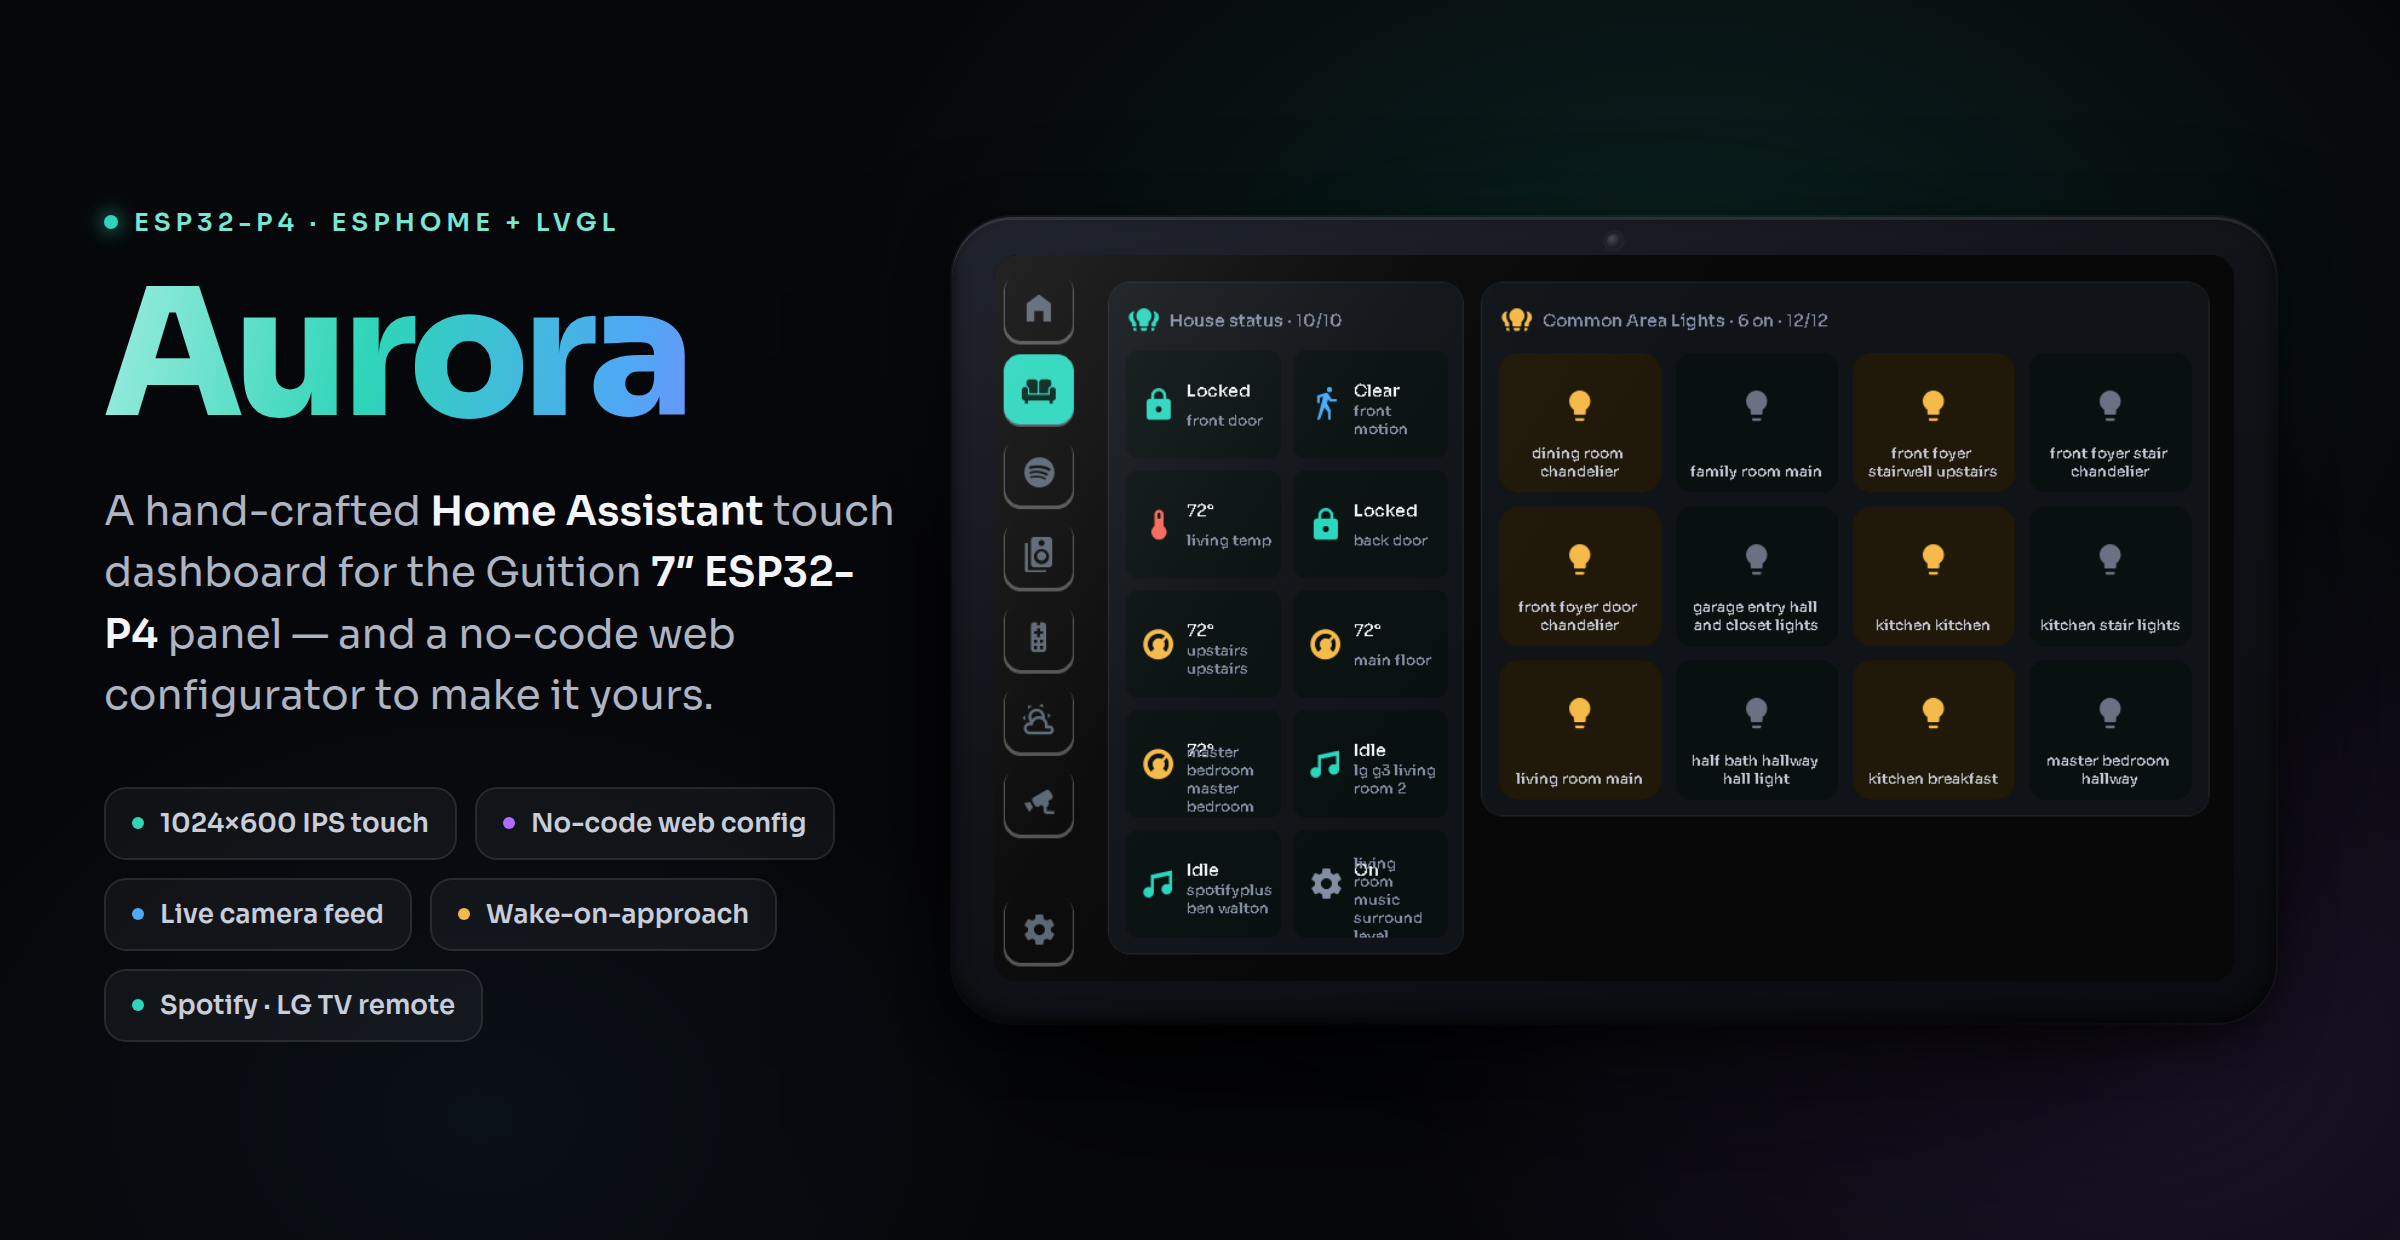
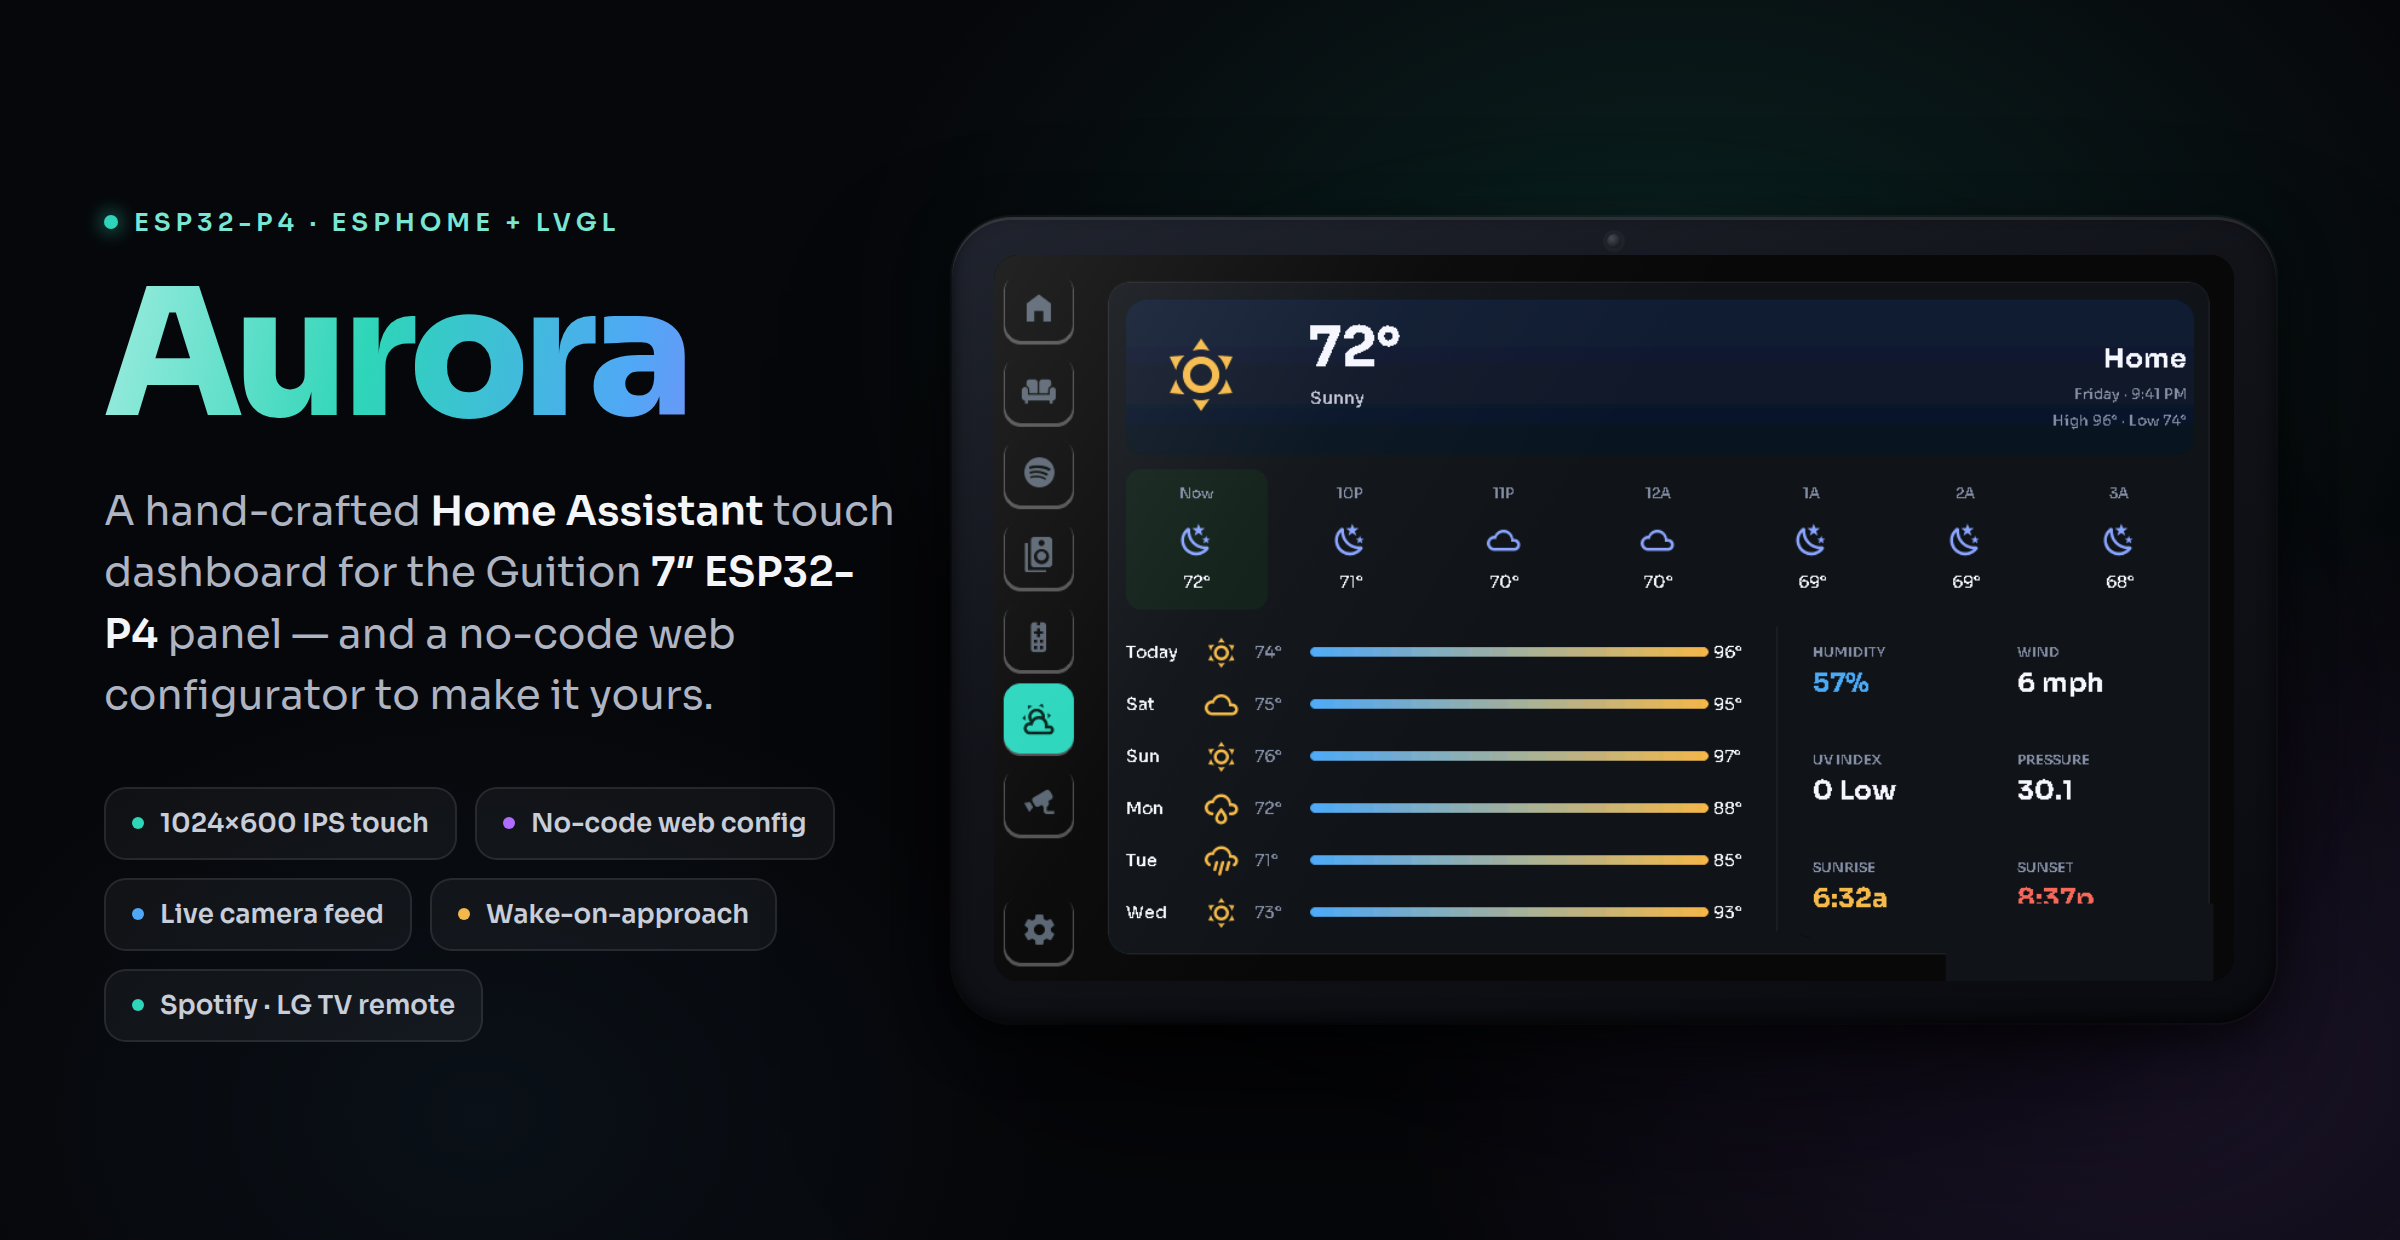
docs: use climate screen as the hero; backfill gallery with home overview
Swap the framed-device hero to the climate/7-day forecast screen (the most
visually striking render; pagination button painted out). Move the house-status
overview into the gallery slot climate vacated so no screen is duplicated.

diff --git a/README.md b/README.md
@@ -30,7 +30,7 @@ Aurora is a standalone [ESPHome](https://esphome.io) + LVGL firmware with a hand
 <table>
 <tr>
 <td width="33%" valign="top"><img src="docs/marketing/screens/controls.png" width="100%"><br><sub><b>Room controls</b> — lights, fans, switches &amp; blinds, one tap away</sub></td>
-<td width="33%" valign="top"><img src="docs/marketing/screens/climate.png" width="100%"><br><sub><b>Climate</b> — live conditions, hourly &amp; a 7-day forecast</sub></td>
+<td width="33%" valign="top"><img src="docs/marketing/screens/dashboard.png" width="100%"><br><sub><b>Home at a glance</b> — locks, sensors &amp; every light in one board</sub></td>
 <td width="33%" valign="top"><img src="docs/marketing/screens/tv-remote.png" width="100%"><br><sub><b>LG webOS remote</b> — D-pad, transport &amp; app shortcuts</sub></td>
 </tr>
 <tr>